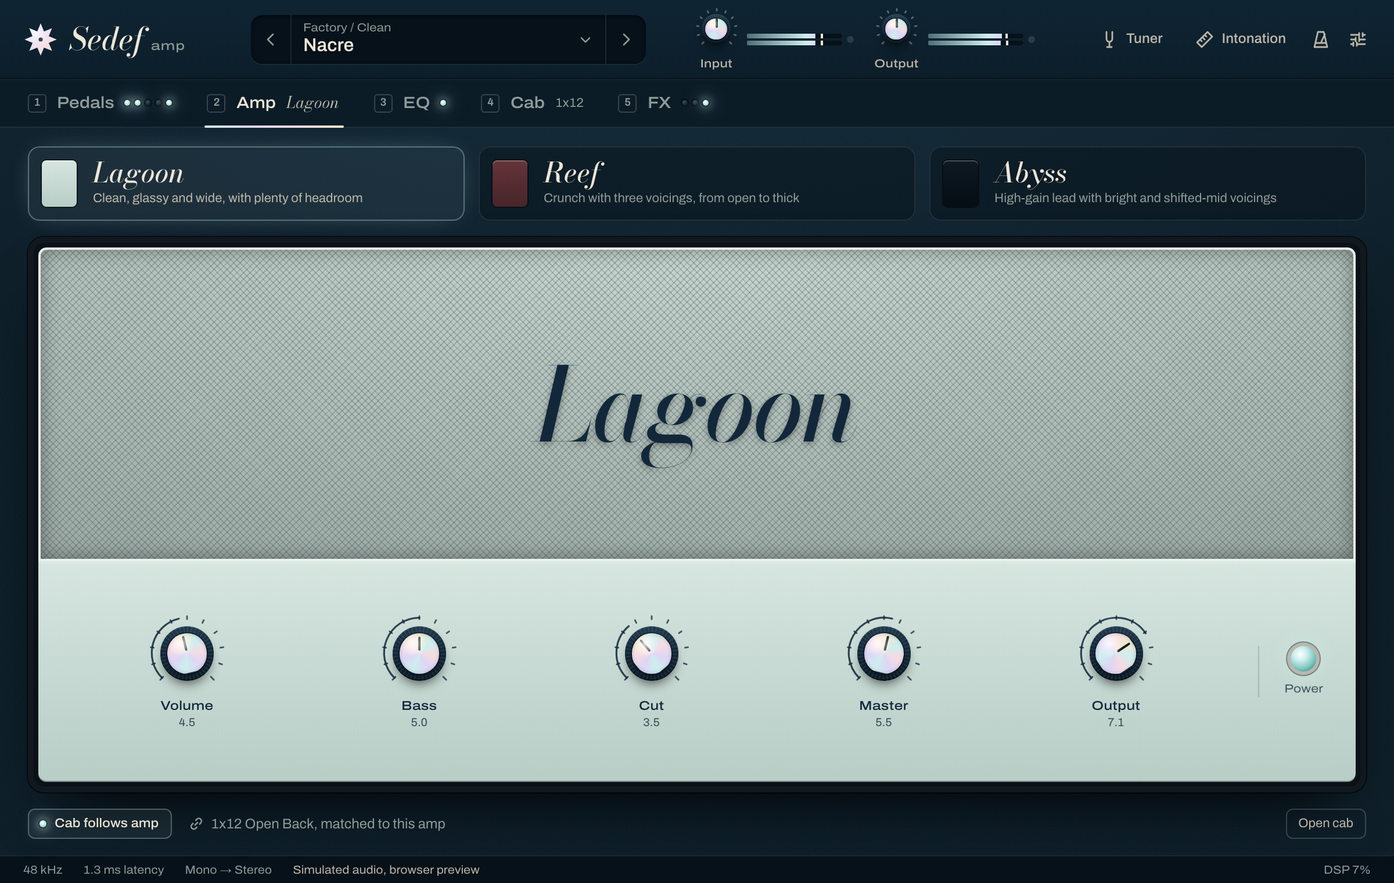
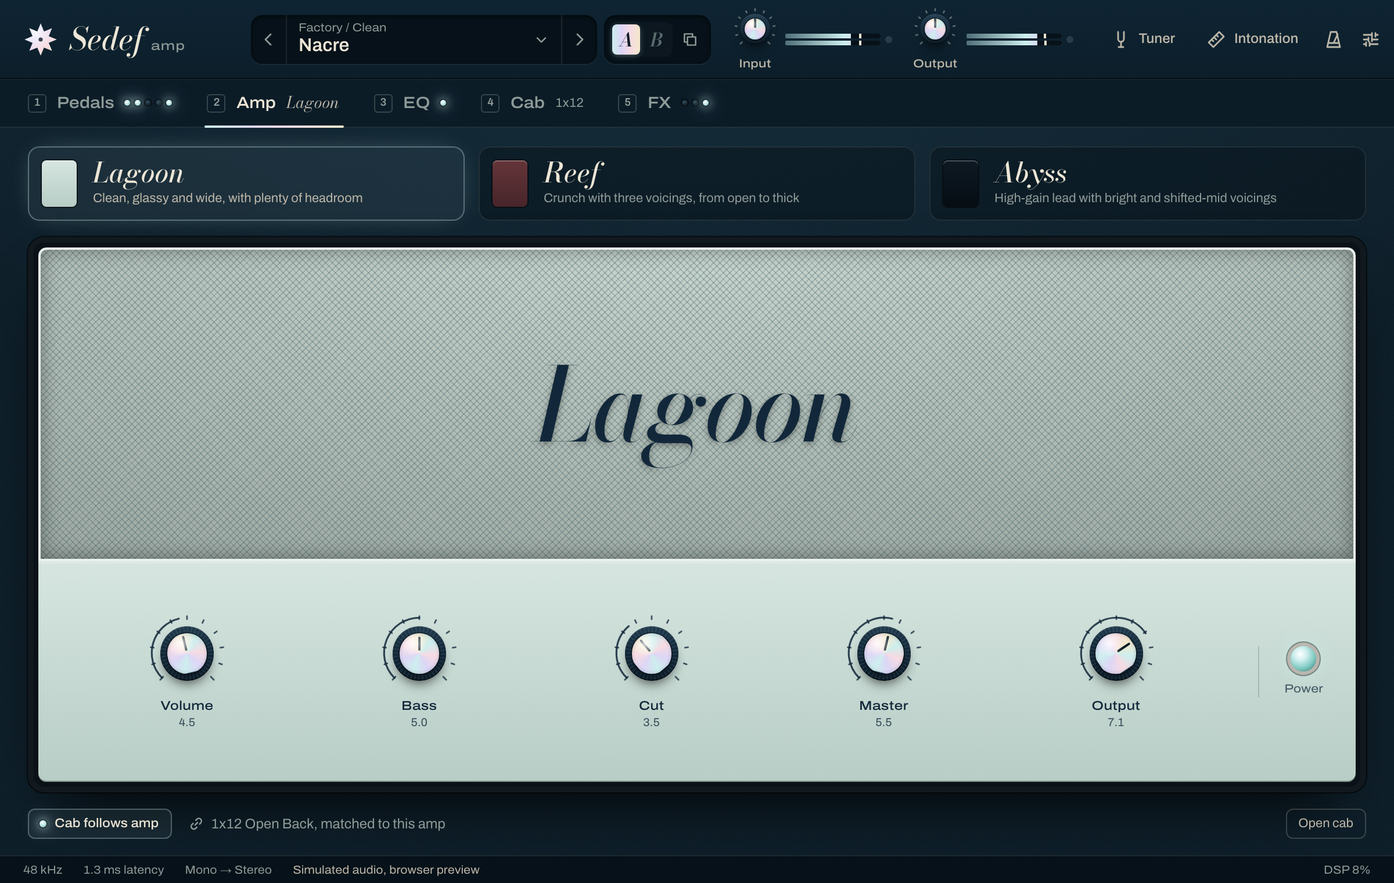
docs: preset browser design note, screenshots and changelog
docs/ui/presets.md records the UX references (TONE3000's library, GarageBand's
Library), the patterns adopted and why, and the interaction spec: opening and
closing, auditioning, the keyboard table, filtering and Recent, A/B, saving,
what the plugin guarantees and the known gaps. docs/images/presets.png shows the
browser mid-audition; the section screenshots are re-rendered for the new
header with A/B.

Changed region(s): [[0.4375, 0.0, 0.75, 0.0928], [0.7812, 0.0309, 1.0, 0.0618], [0.1875, 0.0309, 0.2812, 0.0618]]

diff --git a/docs/ui/presets.md b/docs/ui/presets.md
@@ -1,0 +1,163 @@
+# Presets: browser, audition, A/B and saving
+
+Status: implemented. This note records the patterns we adopted for the preset experience, why,
+and the exact interaction spec. Code: `ui/src/features/presets/`, the preset bar in
+`ui/src/features/header/PresetBar.tsx`, and `plugin/src/PresetManager.cpp`.
+
+![Preset browser](../images/presets.png)
+
+## What we looked at
+
+We studied a few well-liked libraries for interaction patterns only (no code or assets):
+
+- **[TONE3000](https://www.tone3000.com)**, a community library of amp and pedal captures. Its
+  in-plugin browser opens on _Trending_, _Recently used_, _Favorites_ and _Created_; gear-type
+  filters (amp + cab, amp head, cab, pedal…) narrow the catalogue; tags are, in its own sharing
+  guidelines, what search, filtering and discovery run on. Every entry says which gear it is.
+  ([plugin guide](https://www.tone3000.com/guides/tone3000-plugin),
+  [sharing guidelines](https://www.tone3000.com/guides/tone-sharing-guidelines))
+- **GarageBand's Library**: categories on the left, patches on the right, a search field.
+  Selecting a patch _auditions_ it: you play through it straight away, before deciding. Save
+  and Delete sit at the bottom, and a deleted patch cannot be recovered.
+  ([Library](https://support.apple.com/guide/garageband/gbnddf60c8c8/mac),
+  [choose a patch](https://support.apple.com/guide/garageband/gbndbd9d9b33/mac))
+- Plugin preset browsers in general: star favourites, tag filters, an A/B compare pair in the
+  header, and a "back to where I was" when browsing goes nowhere.
+
+## What we adopted, and why
+
+| Pattern                                                                                                | Why                                                                                                                                                                                    | Where                                   |
+| ------------------------------------------------------------------------------------------------------ | -------------------------------------------------------------------------------------------------------------------------------------------------------------------------------------- | --------------------------------------- |
+| A large browser over the rig instead of a popover                                                      | Choosing a sound is a mode of its own. A 400 px popover could only show names; the panel shows what each preset _is_. The header stays live (gain, meters, A/B, tuner).                | `PresetBrowser.tsx`, `App.tsx`          |
+| Click to audition (GarageBand)                                                                         | Guitarists choose by ear. One click, or ↑/↓, and the preset plays while the list stays put.                                                                                            | `session.ts` `audition`                 |
+| Esc returns exactly to where you were                                                                  | Auditioning is only free if the way back is certain, including unsaved tweaks. The footer says so: "Esc Back to Nacre with your edits".                                                | plugin snapshots, `session.ts` `cancel` |
+| Undo instead of confirmations                                                                          | A dialog interrupts and trains people to click through. Loads that drop edits and deletions are instant and offer Undo in a toast (also ⌘/Ctrl+Z).                                     | `Toasts.tsx`, `session.ts`              |
+| Library and categories in a rail, tags as chips (TONE3000 sections and filters, GarageBand categories) | Two independent questions: _whose_ presets (all, favourites, recent, factory, user) and _what kind_ (Clean, Crunch, High Gain, Lead, Ambient, your own folders). Tags cut across both. | `LibraryRail`, `library.ts`             |
+| Rows that describe the sound (TONE3000 names the gear)                                                 | Amp badge in the amp's own finish, the switched-on chain (`Tide → Ripple → Lagoon 1x12 → Fathom`), a one-line note, tags, category and author. You can read a rig without loading it.  | `PresetList.tsx`, `PresetInfo`          |
+| A/B compare in the preset bar                                                                          | Comparing two settings by ear is the most common reason to keep two versions of a sound.                                                                                               | `PresetBar.tsx`, plugin `compareSwitch` |
+| Save as with a category, tags and a note                                                               | Your presets should be as findable as the factory ones.                                                                                                                                | `PresetForm.tsx`                        |
+
+Not adopted: ratings, download counts and comments (there is no community behind a local
+library), audio previews (the real engine plays the real preset at once, which is better), cards
+in a grid (rows scan faster at 1200 × 760), and nested folders beyond one level (the plugin
+stores one folder per user preset).
+
+## Interaction spec
+
+### Opening and closing
+
+- Open: click the preset name, press `/` or ⌘/Ctrl+F (focus goes to search), or ⌘/Ctrl+S on a
+  factory preset (opens straight into Save as). On open the plugin takes a **browse snapshot**.
+- The panel covers the section tabs and the rig (they are `inert` while it is open). The current
+  preset starts in the middle of the list, highlighted with a nacre edge and "Playing".
+- **Keep** (close and keep what plays): Enter, double-click a row, **Done**, clicking the preset
+  name again, or opening the tuner or intonation workbench.
+- **Back** (close and restore the browse snapshot): Esc or the "Back to …" button in the footer.
+  If nothing was auditioned, it just closes. A toast confirms "Back to Nacre".
+- If the sound you opened on had unsaved edits and you keep something else, a toast says
+  "Loaded Riptide" with **Undo**, which restores the browse snapshot, edits included.
+
+### Auditioning
+
+| Input               | In the search field                                                                 | In the list                           |
+| ------------------- | ----------------------------------------------------------------------------------- | ------------------------------------- |
+| Click a row         | plays it                                                                            | plays it                              |
+| Double-click a row  | plays and keeps it                                                                  | plays and keeps it                    |
+| ↑ / ↓               | plays the previous / next visible preset                                            | same                                  |
+| Page Up / Page Down | first / last                                                                        | first / last                          |
+| Home / End          | caret                                                                               | first / last                          |
+| Enter               | keeps the highlighted preset, or the first match if the playing one is filtered out | keeps                                 |
+| F                   | types                                                                               | toggles the favourite                 |
+| Esc                 | back and close (a form open on top: back to the list)                               | same                                  |
+| Digits 1–5          | type                                                                                | do nothing (the sections are covered) |
+
+The search field is a combobox that points at the list (`aria-activedescendant`), so the arrows
+work while typing. Every word of the query must match the name, category, tags, note, author,
+amp, cab or a block name ("abyss drift" finds high-gain presets with echo).
+
+Prev/next in the preset bar while the browser is open are auditions too (Esc still goes back).
+With the browser closed, prev/next on an edited sound keep an **undo snapshot** and show
+"Loaded Tidewater · Undo".
+
+### Filtering and sorting
+
+- Library: All presets, Favourites, Recent, Factory, User, each with a count.
+- Categories: the folders of the presets in the chosen library, with counts. Changing library
+  keeps the category when it still exists there.
+- Tag chips: the tags of what library, category and search leave, most common first; the first
+  twelve show, the rest behind "n more". Several chips narrow to presets carrying all of them.
+- Sort: Name, Recent (picked most recently first) or Category. Choosing the Recent library
+  switches the sort to Recent.
+- **Recent** holds presets you _picked_: kept from the browser, loaded directly or saved. Auditions
+  and prev/next steps don't count. It lives next to the favourites in `settings.json` (12 at
+  most), so it spans sessions and plugin instances.
+
+### A/B compare
+
+Two slots next to the preset bar. The active slot is what you hear; the plugin holds the other.
+
+- The first switch to B copies A, so B starts identical; after that each slot keeps its own
+  preset, edits and dirty state. An amber dot marks a slot with unsaved edits, and each slot's
+  tooltip names its preset.
+- The copy button copies the active slot over the other one ("Copy A to B" / "Copy B to A").
+- Loading and saving act on the active slot. Switching while the browser is open keeps what the
+  browser auditioned first, so Esc never crosses slots.
+- A host restoring a session (or a project reload) resets A/B; the slots don't travel with the
+  session.
+
+### Saving
+
+- ⌘/Ctrl+S on a user preset saves it in place, keeping its tags and note ("Saved Sunday set").
+  On a factory preset or Init it opens Save as. ⌘/Ctrl+Shift+S always opens Save as.
+- **Save as** opens as a sheet over the list: name; category (an existing folder, none, or "New
+  category…"); tags with suggestions from the tags already in use (Enter or comma adds, Backspace
+  removes the last); and an optional one-line note (140 characters), stored as `description`.
+  It starts from the playing preset's name, category, tags and note ("… copy" for a user preset).
+- Clashes show inline before anything is written: a user preset with that name in that category
+  ("“Sunday set” is already in User / Live. Saving replaces it.", and the button becomes
+  "Replace “Sunday set”"); a factory preset with the same name (a note only, as yours lives under
+  User); a new category without a name disables saving.
+- After a save inside the browser, the saved preset becomes the state Esc returns to.
+- **Delete** (user presets) happens at once with an Undo toast; the plugin keeps the file's text
+  and writes it back on Undo, so the id, favourite and Recent entry survive.
+- **Rename** (user presets) refuses a name another preset in the folder already has, inline.
+
+### What the plugin does
+
+`PresetManager` (message thread) owns the library and three kinds of state for the editor:
+
+- `PresetInfo` per preset, computed when the library is scanned: `amp`, `cab` (the amp's own while
+  the amp/cab link is on), `blocks` (switched-on blocks in signal order; the EQ only when the
+  amp's bank is on and not flat) and `description`, all with defaults applied.
+- **Snapshots** (`browse`, `undo`) and the **A/B** slot: every per-preset parameter, the current
+  preset and the values "dirty" compares against. Restoring is exact: an unchanged parameter is
+  left alone, a changed one gets the normalised value (searched a few ULPs around the stored one)
+  that lands on the stored float, so a session saved after "audition, then Esc" is byte for byte
+  the session saved before.
+- A host `setStateInformation` (any thread) only bumps an atomic generation after replacing the
+  values; the message thread drops snapshots and A/B taken before it on its next preset call, so
+  nothing from an old session is ever restored over a new one.
+
+The browser mock (`ui/src/bridge/mockBackend.ts`) implements the same rules, and the host smoke
+test drives the real bridge in a real WebView: audition, restore and compare must give back
+every value exactly, and the saved state must not change (`plugin/smoke/HostSmoke.cpp`).
+
+### Accessibility
+
+- The browser is a labelled dialog; the rail is two radio groups; tag chips are toggle buttons;
+  the list is a listbox whose options carry the whole row as their name ("Nacre, playing. Tide →
+  Ripple → Lagoon 1x12 → Fathom. Glassy, lightly squeezed clean… Factory Clean. tags chorus,
+  compressor, plate"). Rows hold no focusable controls; the star is a mouse shortcut for F and
+  for the footer's Favourite button.
+- A/B is a radio group (arrow keys switch) with the slot's preset and edit state in its name.
+- Toasts are a polite live region, never take focus, stay 8 s (4 s without an action) and pause
+  while hovered or focused.
+- Focus moves into forms and back to the search field, and to the preset bar when the browser
+  closes. `prefers-reduced-motion` turns the panel, sheet and toast animations off.
+
+## Known gaps
+
+- MIDI or host preset switching (the automatable previous/next switches) does not take an undo
+  snapshot; edits made before such a switch are not recoverable.
+- A/B slots and snapshots live in memory: they survive closing the editor, not a project reload.
+- Recent is per machine (it lives with the favourites), not per project.

diff --git a/docs/ui.md b/docs/ui.md
@@ -64,7 +64,9 @@ ui/src/
   controls/             Knob, VSlider, Footswitch, Toggle, Segmented, ChoiceLever, ChoiceSelect,
                         Led, Popover, Icon
   features/
-    header/             brand, preset bar + browser, gain + level meters
+    header/             brand, preset bar with A/B compare, gain + level meters
+    presets/            preset browser: library model, list, Save as/Rename, session (audition,
+                        Esc, Undo); see ui/presets.md
     pedals/ amp/ eq/ cab/ fx/
     tuner/              needle + strobe gauge, overlay
     intonation/         math.ts, store, controller, wizard steps, saddle diagram
@@ -153,6 +155,9 @@ tolerance. The mock starts on Nacre.
 - **Telemetry**: a player strumming every couple of seconds, shaped by input/output gain, the gate
   threshold and the compressor; metronome steps at the current tempo and signature; the effective
   Drift time for Free/Host/Tap sync.
+- **Presets**: the plugin's snapshots (`browse`, `undo`), A/B slots, Recent, undo of a delete,
+  save details and the per-preset `amp`/`cab`/`blocks` summary follow the same rules
+  (`mock/describePreset.ts` mirrors `PresetManager::describe`).
 - **Pitch**: a virtual player modelled on what the C++ `PitchTracker` reports
   (`docs/dsp/tuner.md`), at the editor's 60 Hz — plucks with an attack glide, a jittery reading,
   and settled detections at 200 per second from 0.25 s after the pluck whose last 0.4 s give
@@ -180,18 +185,19 @@ Design canvas: 1200 × 760 CSS px, scaled uniformly to the window (`app/Stage.ts
 resizes its window to the canvas times the chosen scale (75–200 %, `sedef_ui_setScale`); in a
 browser the canvas fits the window. Everything is vector or text, so it stays crisp at any scale.
 
-| Screen     | Notes                                                                                                                                                                                                                                    |
-| ---------- | ---------------------------------------------------------------------------------------------------------------------------------------------------------------------------------------------------------------------------------------- |
-| Header     | logo, preset bar (prev/next, dirty dot, browser with search, Factory/User/Favourites, save, save as, rename, delete, new), input/output gain with peak meters and clip latches, Tuner, Intonation, Metronome (standalone only), Settings |
-| Tabs       | Pedals · Amp · EQ · Cab · FX, keys 1–5 and arrow keys; each tab shows what is switched on inside it                                                                                                                                      |
-| Pedals     | Gate (threshold, open/closed lamp), Transpose, Tide/Pearl/Coral/Ripple enclosures with LEDs and footswitches, Tide gain reduction, Ripple rate lamp                                                                                      |
-| Amp        | Lagoon/Reef/Abyss faceplates; Reef 3-way voice lever; Abyss bright/shift levers; amp/cab link                                                                                                                                            |
-| EQ         | the current amp's bank: 9 faders on a log axis under a live response curve, low/high cut, on/off, flatten                                                                                                                                |
-| Cab        | cab picker (shows the link), speaker with draggable Mic A/B markers (sideways = position, up/down = distance ring), per-mic type for the current cab, level, pan, phase, room, custom IR load/clear                                      |
-| FX         | Drift (heads, Free/Host/Tap sync with tap button, time or note value, the effective time from telemetry, tape controls), Fathom (plate/hall with an envelope sketch), Doubler                                                            |
-| Tuner      | needle + strobe, note and octave, cents, Hz, reference 420–460 Hz, mute; in tune within ±1 cent                                                                                                                                          |
-| Intonation | instrument → measure each string (tune open, capture 12th fret, result with saddle diagram) → summary with copy as text                                                                                                                  |
-| Metronome  | play/stop, tempo knob + tap, signature, sound, volume, step grid (off/normal/accent/soft), live beat                                                                                                                                     |
+| Screen     | Notes                                                                                                                                                                                                              |
+| ---------- | ------------------------------------------------------------------------------------------------------------------------------------------------------------------------------------------------------------------ |
+| Header     | logo, preset bar (prev/next, name with dirty dot, A/B compare with copy), input/output gain with peak meters and clip latches, Tuner, Intonation, Metronome (standalone only), Settings                            |
+| Presets    | browser over the rig ([details](ui/presets.md)): library and category rail, tag chips, search, sort, rows with amp, chain and note; click or arrows audition, Enter keeps, Esc goes back exactly; Undo for deletes |
+| Tabs       | Pedals · Amp · EQ · Cab · FX, keys 1–5 and arrow keys; each tab shows what is switched on inside it                                                                                                                |
+| Pedals     | Gate (threshold, open/closed lamp), Transpose, Tide/Pearl/Coral/Ripple enclosures with LEDs and footswitches, Tide gain reduction, Ripple rate lamp                                                                |
+| Amp        | Lagoon/Reef/Abyss faceplates; Reef 3-way voice lever; Abyss bright/shift levers; amp/cab link                                                                                                                      |
+| EQ         | the current amp's bank: 9 faders on a log axis under a live response curve, low/high cut, on/off, flatten                                                                                                          |
+| Cab        | cab picker (shows the link), speaker with draggable Mic A/B markers (sideways = position, up/down = distance ring), per-mic type for the current cab, level, pan, phase, room, custom IR load/clear                |
+| FX         | Drift (heads, Free/Host/Tap sync with tap button, time or note value, the effective time from telemetry, tape controls), Fathom (plate/hall with an envelope sketch), Doubler                                      |
+| Tuner      | needle + strobe, note and octave, cents, Hz, reference 420–460 Hz, mute; in tune within ±1 cent                                                                                                                    |
+| Intonation | instrument → measure each string (tune open, capture 12th fret, result with saddle diagram) → summary with copy as text                                                                                            |
+| Metronome  | play/stop, tempo knob + tap, signature, sound, volume, step grid (off/normal/accent/soft), live beat                                                                                                               |
 
 ### EQ curve
 
@@ -244,8 +250,10 @@ something is alive.
 - **Accessibility**: every control is reachable by keyboard with a visible focus ring; knobs and
   faders are ARIA sliders with real values and readable `aria-valuetext`; arrows, Page Up/Down,
   Home/End, Delete (reset), shift for fine control. Radio groups have one tab stop and arrow,
-  Home and End keys (`controls/useRadioGroup.ts`). Opening and closing a form in the preset
-  browser keeps focus inside it. The tuner announces a settled reading ("E 2, in tune") through
+  Home and End keys (`controls/useRadioGroup.ts`). The preset browser has a full keyboard path
+  (`/` or ⌘/Ctrl+F to search, arrows to audition, Enter, Esc, F for favourite; see
+  [ui/presets.md](ui/presets.md)); digit keys never switch sections while you type or while it is
+  open, and toasts are a polite live region that never takes focus. The tuner announces a settled reading ("E 2, in tune") through
   a polite live region, at most every 2 s, rather than every pluck. Text meets WCAG AA (4.5:1):
   `--bone-3` is the quietest text colour (`--bone-4` is for lines and fills only), and the
   enclosure legends' dim tone is strong enough on every paint. `prefers-reduced-motion` disables

diff --git a/CHANGELOG.md b/CHANGELOG.md
@@ -6,6 +6,31 @@ All notable changes to this project are documented here. The format follows
 
 ## [Unreleased]
 
+### Added
+
+- **Preset browser:** a panel over the rig with a library rail (all, favourites, recent, factory,
+  user), categories, tag chips, search across names, notes, tags, amps and blocks, and sorting by
+  name, recency or category. Rows show the amp, the switched-on chain, a one-line note, tags and
+  the author.
+- **Audition:** a click or the arrow keys play a preset while the browser stays open; Enter or a
+  double-click keeps it, and Esc restores exactly the sound you had when it opened, unsaved edits
+  included.
+- **Undo:** loading over unsaved edits (from the browser or prev/next) and deleting a user preset
+  offer Undo in a toast (also ⌘/Ctrl+Z).
+- **A/B compare** next to the preset bar, with copy between the slots and an edit marker per slot.
+- **Saving:** ⌘/Ctrl+S saves (Save as for factory presets), ⌘/Ctrl+Shift+S is Save as. Save as
+  takes a category (or a new one), tags with suggestions and an optional note, and warns inline
+  before replacing a preset.
+- Presets may carry a one-line `description`; every factory preset has one, and the factory
+  categories and tags follow one vocabulary (`presets/README.md`).
+
+### Changed
+
+- Bridge protocol 2: presets report their amp, cab, active blocks and description; Recent, A/B,
+  snapshots and undoing a delete are new native functions.
+- Factory presets: Mariana and Coral Fuzz moved to a new High Gain category, Morning Ritual to
+  Crunch. Sounds and levels are unchanged.
+
 ## [0.1.0] - 2026-11-01
 
 The first public build: a complete guitar rig with a tuner and an intonation workbench.

diff --git a/README.md b/README.md
@@ -29,10 +29,22 @@ around them.
 | **EQ** | 9-band graphic EQ with low/high cut, one bank per amp |
 | **Post** | **Drift** multi-head tape echo with wow, flutter and tape saturation · **Fathom** plate and hall reverbs · double-tracking **Doubler** |
 | **Tools** | precision tuner · **intonation workbench** · metronome with odd meters (standalone) |
+| **Presets** | browser with categories, tags and search · click to audition, Esc to go back · A/B compare · Undo when a load or delete would lose work |
 
 <img src="docs/images/amp.png" alt="The amp section" width="100%">
 
 <img src="docs/images/cab.png" alt="Cab section with movable microphones" width="49%"> <img src="docs/images/fx.png" alt="Tape echo and reverb" width="49%">
+
+## Presets
+
+Click a preset and it plays at once, while the browser stays open; the arrow keys walk the list
+the same way. Enter keeps it. Esc puts back exactly what you had when you opened the browser,
+unsaved tweaks included. Every row tells you the amp, the chain that's switched on, a line about
+the sound and its tags, so you can read a rig before you hear it. Compare two versions with A/B,
+save your own with a category, tags and a note, and never lose edits: loads and deletes come with
+Undo. See [docs/ui/presets.md](docs/ui/presets.md) for the design.
+
+<img src="docs/images/presets.png" alt="Preset browser with library, categories, tags and rows showing each preset's amp and signal chain" width="100%">
 
 ## The intonation workbench
 
